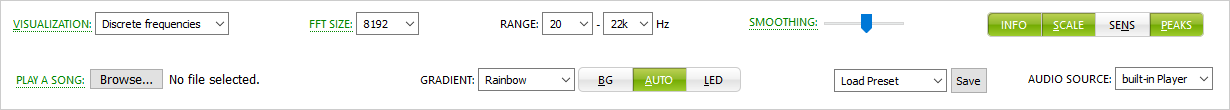
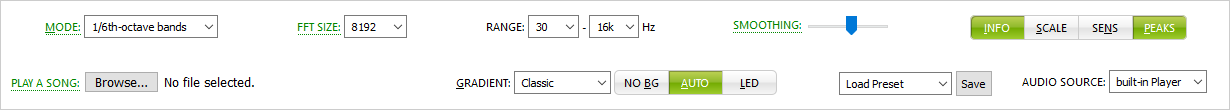
Updated documentation.

diff --git a/README.md b/README.md
@@ -35,7 +35,7 @@ The *Stereo mix* input allows audioMotion to receive audio generated by other pr
 
 Due to browsers' security policies, JavaScript can only read files via the HTTP protocol.
 So, in order to use your own playlists and get the best out of audioMotion, you'll need to set up a local web server to allow HTTP access to your music folder.<br>
-<sub>Note: on Firefox you still can load local playlists and music files, if they're stored *inside audioMotion's folder* (tested up to Firefox version 66).</sub>
+<sub>Note: Firefox, as of version 66, still allows loading local playlists and music files if they're stored **inside audioMotion's folder**.</sub>
 
 The easiest way to set up a local web server is by using [Docker](https://www.docker.com/). Once you have Docker installed and running, simply open a command prompt in the audioMotion folder and run:
 
@@ -137,19 +137,19 @@ Several options of color gradients for the analyzer bars. You can change gradien
 
 ### Switches (on / off)
 
-In the list below, the character inside brackets indicates the keyboard shortcut, when available.
-
 + **INFO** toggles the on-screen display of song information on every track change
-+ **[S]CALE** toggles the display of the frequency scale on the X-axis; clicking the visualization area or pressing the **S** key also toggles this option
-+ **SE[N]S** increases analyzer sensitivity to improve the visualization of songs too quiet
-+ **[P]EAKS** shows volume peaks for each frequency
++ **SCALE** toggles the display of the frequency scale on the X-axis; clicking the visualization area or pressing the **S** key also toggles this option
++ **SENS** increases analyzer sensitivity to improve the visualization of songs too quiet
++ **PEAKS** shows volume peaks for each frequency
 
-+ **NO [B]G** when active, sets a black background for the analyzer, instead of the color defined by each gradient (improves contrast)
-+ **[A]UTO** when active, every track change will select the next gradient, cycling through the available options
-+ **[L]ED** applies a vintage LED effect to the analyzer bars
++ **NO BG** when active, sets a black background for the analyzer, instead of the color defined by each gradient (improves contrast)
++ **AUTO** when active, every track change will select the next gradient, cycling through the available options
++ **LED** applies a vintage LED effect to the analyzer bars
 
 + **FLAT** applies an outline instead of shadow on text displayed on canvas - may improve performance on some graphic cards
 + **LO-RES** reduces canvas resolution to improve rendering speed (especially useful for 4K+ displays)
+
+The underlined character in the switch label indicates the keyboard shortcut, when available.
 
 ## Fullscreen mode and keyboard shortcuts
 
@@ -157,22 +157,25 @@ Click the **Fullscreen Analyzer** button to display the spectrum analyzer in ful
 
 You can use the keyboard shortcuts below to control the player and change display settings without leaving fullscreen mode:
 
-| key | alternate | action |
-|-----|-----------|--------|
-**Left arrow** | **J** | play previous song
-**Right arrow** | **K** | play next song
+| keys | alternate | action |
+|------|-----------|--------|
+**Left** / **Right** arrows | **J** / **K** | play previous / next song
 **Space** | | play / pause
-**Up arrow** | **I** | select previous gradient
-**Down arrow** | **M** | select next gradient
-**A** | | toggle auto gradient change (AUTO switch)
-**B** | | toggle background (NO BG switch)
-**D** | | display current song and configuration information on screen
+**Up** / **Down** arrows | **Shift + G** / **G** | select previous / next gradient
+**A** | | toggle auto gradient change
+**B** | | toggle background
+**D** | | display song info - press again for configuration information
 **F** | | toggle fullscreen mode
-**L** | | toggle LED effect on analyzer bars (LED switch)
-**N** | | toggle analyzer sensitivity (SENS switch)
-**P** | | toggle peaks display (PEAKS switch)
-**S** | click on analyzer | toggle frequency scale display on/off (SCALE switch)
-**V** | | change visualization mode
+**I** | | toggle song info display on track change
+**L** | | toggle LED effect on analyzer bars
+**Shift + M** / **M** | | select previous / next visualization mode
+**N** | | toggle analyzer sensitivity
+**O** | | toggle low-resolution option
+**P** | | toggle peaks display
+**R** | | toggle playlist repeat
+**S** | click on analyzer | toggle frequency scale display on/off
+**T** | | toggle flat text option
+**U** | | shuffle playlist
 
 ## Screenshots
 

diff --git a/Changelog.md b/Changelog.md
@@ -10,12 +10,18 @@ Changelog
 + Two configuration options to improve performance:
   + **FLAT** replaces shadow for outline on text displayed on canvas;
   + **LO-RES** reduces canvas resolution to improve rendering speed (especially useful for 4K+ displays);
-+ Current visualization mode, auto gradient status and sensitivity setting added to the on-screen information;
++ Current visualization mode, auto gradient status and repeat status added to the on-screen information;
++ Switch status is now shown on screen when changed via keyboard shortcode;
 + New preset to restore all configuration defaults;
 + More keyboard shortcuts.
 
 ### Changed:
 
++ Changed some keyboard shortcuts:
+  + [I] now toggles the display of song information on track change;
+  + [M] now selects the next visualization mode;
+  + alternate keys for gradient selection changed to [G] and [Shift + G];
++ On-screen information is now displayed in two stages - press [D] once for song info, press it again for settings info;
 + Increased font size of on-screen information;
 + Restored the shadow on text displayed on canvas - it can be disabled via the *FLAT* switch;
 + *CYCLE* switch renamed to *AUTO*;
